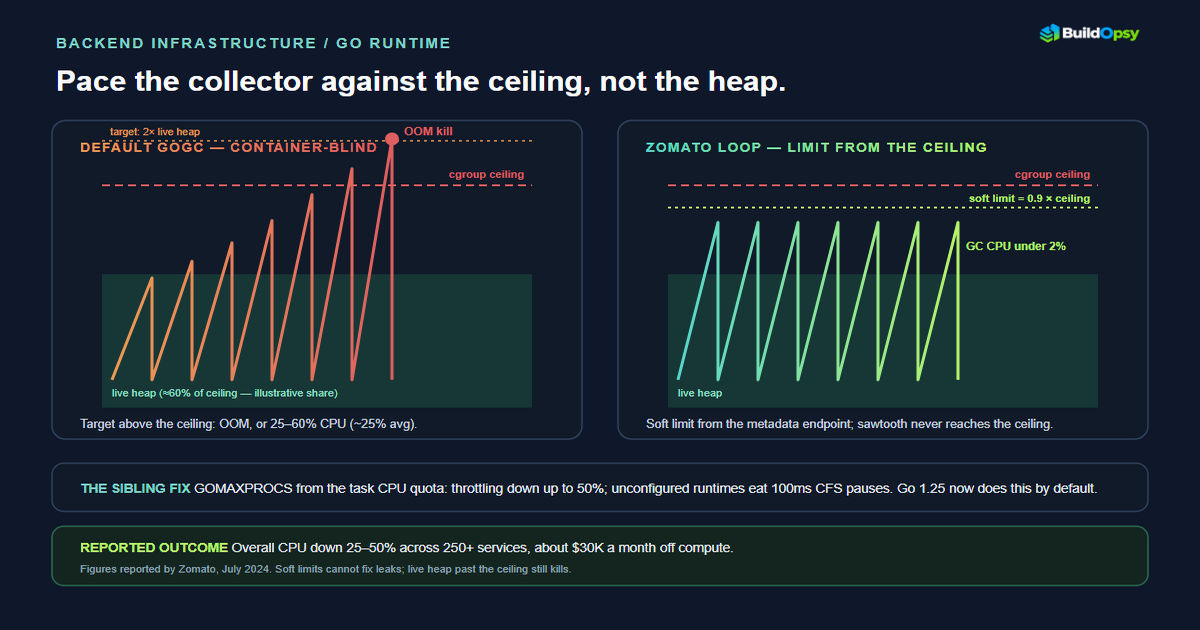
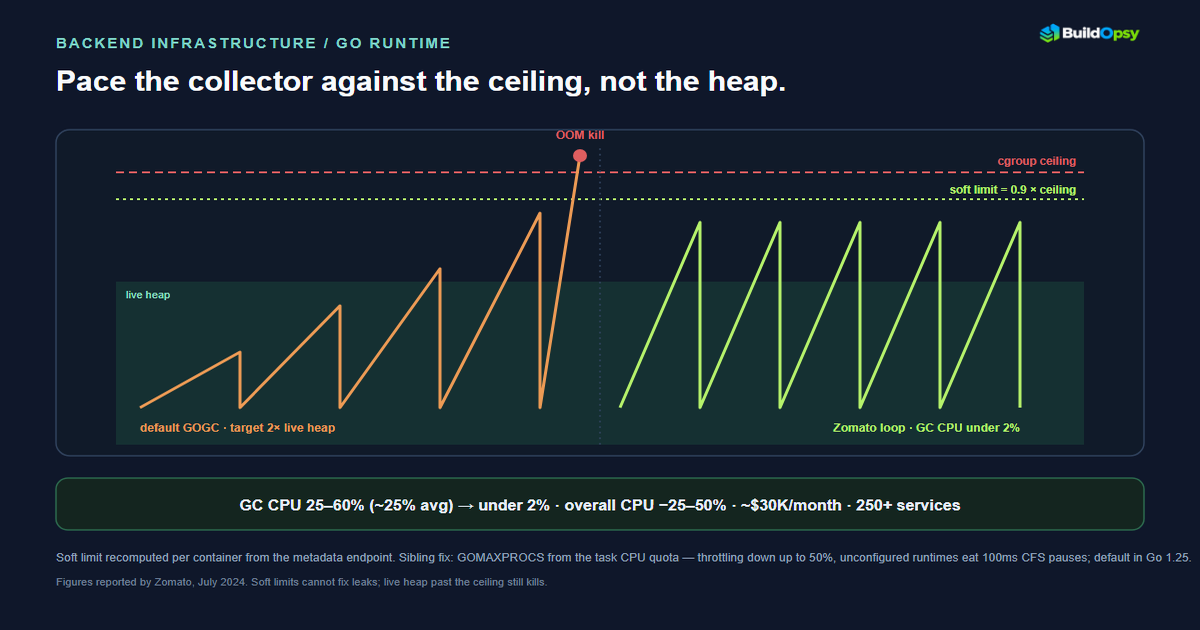
Fix broken unit-economics styling, feature starlink-core, leaner zomato figure
- tools/unit-economics-calculator.html was missing the radar.css link,
  leaving the whole radar card (including the Reset button) unstyled
- Homepage: featured slot now carries the Starlink core-outage
  postmortem; recent grid opens with the Roadster cold-gas audit and
  the Amazon AI book-slop audit
- zomato-gomemlimit-gc: one combined chaos-to-control gauge replaces
  the two mirrored panels; all reported figures preserved

Changed region(s): [[0.0308, 0.181, 1.0, 0.9349], [0.555, 0.2413, 0.925, 0.3317]]

diff --git a/index.html b/index.html
@@ -90,7 +90,7 @@
     <div class="wrap">
       <a class="brand brand-logo" href="index.html"><img loading="eager" fetchpriority="high" decoding="async" class="logo-dark" src="images/logo.png" alt="Buildopsy" width="2078" height="757"><img loading="eager" decoding="async" class="logo-light" src="images/logo-white.png" alt="Buildopsy" width="1894" height="548" aria-hidden="true"></a>
       <nav class="topnav" id="topnav">
-        
+
         <a href="system-design/index.html">System Design</a>
         <a href="system-design/ai-slop.html">AI Slop Watch</a>
         <a href="calculators.html">Calculators</a><a href="system-design/course.html">Courses</a><a href="pricing.html">Pricing</a>
@@ -166,23 +166,22 @@
     <!-- Featured -->
     <section class="sec">
       <div class="sec-head">
-        <h2 class="sec-title"><i data-lucide="layers"></i> Featured System Architecture</h2>
+        <h2 class="sec-title"><i data-lucide="layers"></i> Featured Analysis</h2>
         <a class="sec-link" href="system-design/index.html">View All RFCs <i data-lucide="chevron-right"></i></a>
       </div>
-      <a class="feature-link article-card featured-article" href="system-design/figma-system-design.html">
-        <img loading="eager" fetchpriority="high" decoding="async" src="images/articles/figma-home-architecture.svg" alt="High-resolution Figma multiplayer architecture: browser clients send edits through WebSockets to one document owner, which orders mutations and records durable revisions" width="2400" height="1260" onerror="this.style.display='none'">
+      <a class="feature-link article-card featured-article" href="system-design/starlink-core-network-outage-postmortem.html">
+        <img loading="eager" fetchpriority="high" decoding="async" src="images/articles/starlink-core-outage-meme.png" alt="Starlink core-network failure: satellite constellation not identified as the failed layer, failed ground core services, and the exposed 6M+ user footprint; tens of thousands reported offline" width="1200" height="630" onerror="this.style.display='none'">
         <div class="article-card-body">
         <div style="display:flex;flex-wrap:wrap;gap:8px;align-items:center;">
-          <span class="fl-tag">Featured Architecture</span>
-          <span class="chip">Realtime Systems</span>
+          <span class="fl-tag">Featured Postmortem</span>
+          <span class="chip">Satellite Network</span>
         </div>
-        <h3>Figma System Design: How Multiplayer Collaboration Actually Works</h3>
-        <p class="fl-desc">
-          How document ownership orders edits, WebSockets fan out changes, and cursor presence stays on a separate path. </p>
+        <h3>Starlink's 2.5-Hour Global Outage: The Core Network Failed, Not the Satellites</h3>
+        <p class="fl-desc">Core software services failed while the constellation was not identified as the failed layer. The service's 6M+ users across 140 countries were exposed; tens of thousands reported offline — ground control-plane fate-sharing.</p>
         <div style="display:flex;gap:8px;margin-top:14px;">
-          <span class="chip">WebSockets</span><span class="chip">Rust</span><span class="chip">Realtime</span>
+          <span class="chip">Starlink</span><span class="chip">Control Plane</span><span class="chip">Postmortem</span>
         </div>
-        <span class="article-read">Read the system design <span aria-hidden="true">→</span></span>
+        <span class="article-read">Read the postmortem <span aria-hidden="true">→</span></span>
         </div>
       </a>
     </section>
@@ -194,6 +193,26 @@
         <a class="sec-link" href="system-design/index.html">Browse All Articles <i data-lucide="chevron-right"></i></a>
       </div>
       <div class="article-grid" id="articleGrid">
+        <a class="feature-link article-card" data-article-card href="system-design/tesla-roadster-thruster-claims-audit.html">
+          <img loading="lazy" decoding="async" src="images/articles/roadster-boost-budget.png" alt="Illustrative x-ray sketch of a Roadster-style coupe with the reported cold-gas components called out — external nitrogen fill, COPV tanks, regulator and valves, rear nozzles, and a refill loop — with reported durations beside each configuration: about five seconds of boost and a 2–6 hour refill for the 200-liter Thrust, a 6–7 hour refill for the 600-liter Rocket. A dashed panel holds a modeled 80-kilonewton, five-second gas-flow scenario whose inputs come from separate reports." width="1200" height="630" onerror="this.style.display='none'">
+          <div class="article-card-body">
+          <div style="display:flex;flex-wrap:wrap;gap:8px;align-items:center;"><span class="fl-tag">Vehicle Engineering</span><span class="chip">October 2026</span></div>
+          <h3>Reported 0.81 Seconds to 60, Hours to Refill: The Roadster's Cold-Gas Math</h3>
+          <p class="fl-desc">Road &amp; Track reports the presentation displayed 0.81 seconds to 60 mph. Refill reports give 2–6 hours for 200-liter Thrust and 6–7 hours for 600-liter Rocket; a separate model does not estimate tank inventory.</p>
+          <div style="display:flex;gap:8px;margin-top:14px;flex-wrap:wrap;"><span class="chip">Tesla</span><span class="chip">Cold Gas</span><span class="chip">Claims Audit</span><span class="chip">Rook</span></div>
+          <span class="article-read">Read the audit <span aria-hidden="true">→</span></span>
+          </div>
+        </a>
+        <a class="feature-link article-card" data-article-card href="system-design/amazon-ai-book-slop-postmortem.html">
+          <img loading="lazy" decoding="async" src="images/articles/amazon-ai-book-lookalike-meme.png" alt="Reported sequence: suspicious lookalike book listing, author purchase and report, marketplace removal" width="1200" height="630" onerror="this.style.display='none'">
+          <div class="article-card-body">
+          <div style="display:flex;flex-wrap:wrap;gap:8px;align-items:center;"><span class="fl-tag">AI Book Slop Audit</span><span class="chip">October 2026</span></div>
+          <h3>Amazon's AI Book Slop Problem: The Copycat Beside the Real Book</h3>
+          <p class="fl-desc">A reporter bought a suspicious lookalike of his own book. Amazon removed it after his report; the seller and generation method remain unverified.</p>
+          <div style="display:flex;gap:8px;margin-top:14px;flex-wrap:wrap;"><span class="chip">Amazon</span><span class="chip">Publishing</span><span class="chip">Provenance</span></div>
+          <span class="article-read">Read the audit <span aria-hidden="true">→</span></span>
+          </div>
+        </a>
         <a class="feature-link article-card" data-article-card href="system-design/litellm-release-pipeline-compromise-audit.html">
           <img loading="lazy" decoding="async" src="images/articles/litellm-supply-chain-audit-social.png" alt="Editorial card: the LiteLLM v1.107.0 tag was clean, but the build came from a lookalike fork; a Rook supply-chain audit." width="1200" height="630" onerror="this.style.display='none'">
           <div class="article-card-body">
@@ -254,16 +273,7 @@
           <span class="article-read">Read the postmortem <span aria-hidden="true">→</span></span>
           </div>
         </a>
-        <a class="feature-link article-card" data-article-card href="system-design/tesla-roadster-thruster-claims-audit.html">
-          <img loading="lazy" decoding="async" src="images/articles/roadster-boost-budget.png" alt="Illustrative x-ray sketch of a Roadster-style coupe with the reported cold-gas components called out — external nitrogen fill, COPV tanks, regulator and valves, rear nozzles, and a refill loop — with reported durations beside each configuration: about five seconds of boost and a 2–6 hour refill for the 200-liter Thrust, a 6–7 hour refill for the 600-liter Rocket. A dashed panel holds a modeled 80-kilonewton, five-second gas-flow scenario whose inputs come from separate reports." width="1200" height="630" onerror="this.style.display='none'">
-          <div class="article-card-body">
-          <div style="display:flex;flex-wrap:wrap;gap:8px;align-items:center;"><span class="fl-tag">Vehicle Engineering</span><span class="chip">October 2026</span></div>
-          <h3>Reported 0.81 Seconds to 60, Hours to Refill: The Roadster's Cold-Gas Math</h3>
-          <p class="fl-desc">Road &amp; Track reports the presentation displayed 0.81 seconds to 60 mph. Refill reports give 2–6 hours for 200-liter Thrust and 6–7 hours for 600-liter Rocket; a separate model does not estimate tank inventory.</p>
-          <div style="display:flex;gap:8px;margin-top:14px;flex-wrap:wrap;"><span class="chip">Tesla</span><span class="chip">Cold Gas</span><span class="chip">Claims Audit</span><span class="chip">Rook</span></div>
-          <span class="article-read">Read the audit <span aria-hidden="true">→</span></span>
-          </div>
-        </a>
+
         <a class="feature-link article-card" data-article-card href="system-design/azure-openai-sweden-central-cache-restart-postmortem.html">
           <img loading="lazy" decoding="async" src="images/articles/azure-openai-cache-restart.png" alt="Azure OpenAI incident flow: cache-clearing deployment, about 20× normal regional-backend traffic, exhausted connections, and database-dependent health-check restarts" width="1200" height="630" onerror="this.style.display='none'">
           <div class="article-card-body">
@@ -404,16 +414,7 @@
           <span class="article-read">Read the audit <span aria-hidden="true">→</span></span>
           </div>
         </a>
-        <a class="feature-link article-card" data-article-card href="system-design/amazon-ai-book-slop-postmortem.html">
-          <img loading="lazy" decoding="async" src="images/articles/amazon-ai-book-lookalike-meme.png" alt="Reported sequence: suspicious lookalike book listing, author purchase and report, marketplace removal" width="1200" height="630" onerror="this.style.display='none'">
-          <div class="article-card-body">
-          <div style="display:flex;flex-wrap:wrap;gap:8px;align-items:center;"><span class="fl-tag">AI Book Slop Audit</span><span class="chip">October 2026</span></div>
-          <h3>Amazon's AI Book Slop Problem: The Copycat Beside the Real Book</h3>
-          <p class="fl-desc">A reporter bought a suspicious lookalike of his own book. Amazon removed it after his report; the seller and generation method remain unverified.</p>
-          <div style="display:flex;gap:8px;margin-top:14px;flex-wrap:wrap;"><span class="chip">Amazon</span><span class="chip">Publishing</span><span class="chip">Provenance</span></div>
-          <span class="article-read">Read the audit <span aria-hidden="true">→</span></span>
-          </div>
-        </a>
+
         <a class="feature-link article-card" data-article-card href="system-design/ai-sandbox-escape-architecture.html">
           <img loading="lazy" decoding="async" src="images/articles/agent-egress-controls.png" alt="Reference architecture showing an agent workload behind a kernel isolation boundary and host-controlled default-deny egress gateway, with write-event monitoring" width="1200" height="630">
           <div class="article-card-body">

diff --git a/tools/unit-economics-calculator.html b/tools/unit-economics-calculator.html
@@ -28,6 +28,7 @@
   <link href="https://fonts.googleapis.com/css2?family=Montserrat:wght@400;500;600;700;800&display=swap" rel="stylesheet">
   <script>if (localStorage.getItem('pf-theme') !== 'light') document.documentElement.classList.add('dark');</script>
   <link rel="stylesheet" href="../css/styles.css">
+  <link rel="stylesheet" href="../css/radar.css">
   <script src="https://unpkg.com/lucide@latest" defer></script>
   <script type="application/ld+json">
   {
